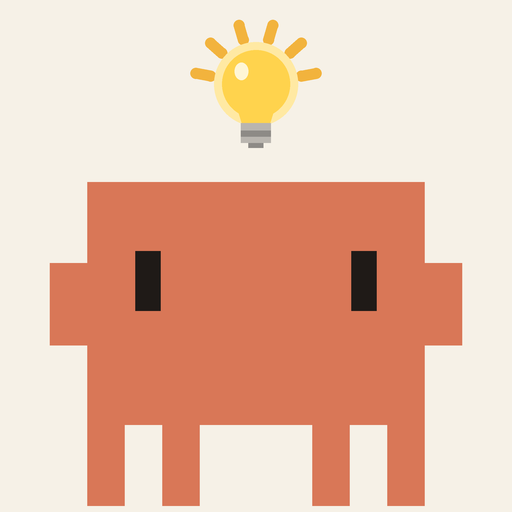
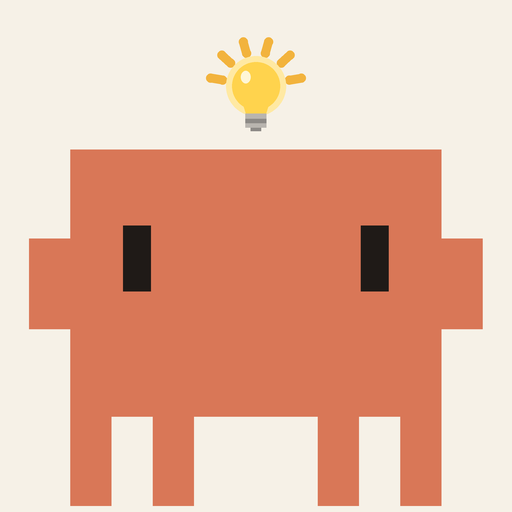
アイコン：豆電球をもっと小さく、Clawd を大きく

diff --git a/sw.js b/sw.js
@@ -1,6 +1,6 @@
 // 電波がなくても開けるように、画面とカードを取っておく。
 // 先にネットを見に行き、つながらないときだけ取っておいたものを使う（作り直しがすぐ反映されるように）。
-const CACHE = 'ankicard-v10';
+const CACHE = 'ankicard-v11';
 const SHELL = ['./', 'index.html', 'app.js', 'stats.js', 'manifest.webmanifest', 'icon.svg', 'icon-180.png', 'icon-512.png'];
 self.addEventListener('install', e => {
   e.waitUntil(caches.open(CACHE).then(c => c.addAll(SHELL)).then(() => self.skipWaiting()));

diff --git a/make_icon_bulb.py b/make_icon_bulb.py
@@ -19,22 +19,22 @@ METAL = '#8D8A86'
 METAL2 = '#B9B5AF'
 
 # Clawd：元の絵（胴 144..369）を S 倍して、下の端に寄せる
-S = 1.5
+S = 1.65
 OX, OY = 256 - 256.5 * S, 506 - 466 * S   # 足の先が 506 に来るように
 def T(x, y): return (OX + x * S, OY + y * S)
 def R(x0, y0, x1, y1): return (*T(x0, y0), *T(x1, y1))
 
 shapes = []  # (種類, 引数…)
 # 豆電球（頭の上、まん中）
-bx, by, br = 256, 84, 34
+bx, by, br = 256, 86, 24
 q = br / 54  # 口金などは電球の大きさに合わせる
 for k in range(8):                       # 光の線（下の2本は電球の口金にかかるので省く）
     a = math.radians(-90 + (k - 3.5) * 32)
     if math.sin(a) > 0.35:
         continue
-    r0, r1 = br + 12, br + 27
-    shapes.append(('line', [(bx + r0 * math.cos(a), by + r0 * math.sin(a)), (bx + r1 * math.cos(a), by + r1 * math.sin(a))], 11, RAY))
-shapes.append(('ellipse', (bx - br - 8, by - br - 8, bx + br + 8, by + br + 8), GLOW))
+    r0, r1 = br + 10, br + 22
+    shapes.append(('line', [(bx + r0 * math.cos(a), by + r0 * math.sin(a)), (bx + r1 * math.cos(a), by + r1 * math.sin(a))], 9, RAY))
+shapes.append(('ellipse', (bx - br - 6, by - br - 6, bx + br + 6, by + br + 6), GLOW))
 shapes.append(('ellipse', (bx - br, by - br, bx + br, by + br), GLASS))
 shapes.append(('poly', [(bx - 30 * q, by + 38 * q), (bx + 30 * q, by + 38 * q), (bx + 22 * q, by + 64 * q), (bx - 22 * q, by + 64 * q)], GLASS))
 shapes.append(('ellipse', (bx - 34 * q, by - 34 * q, bx - 12 * q, by - 6 * q), '#FFF6D6'))     # つや
